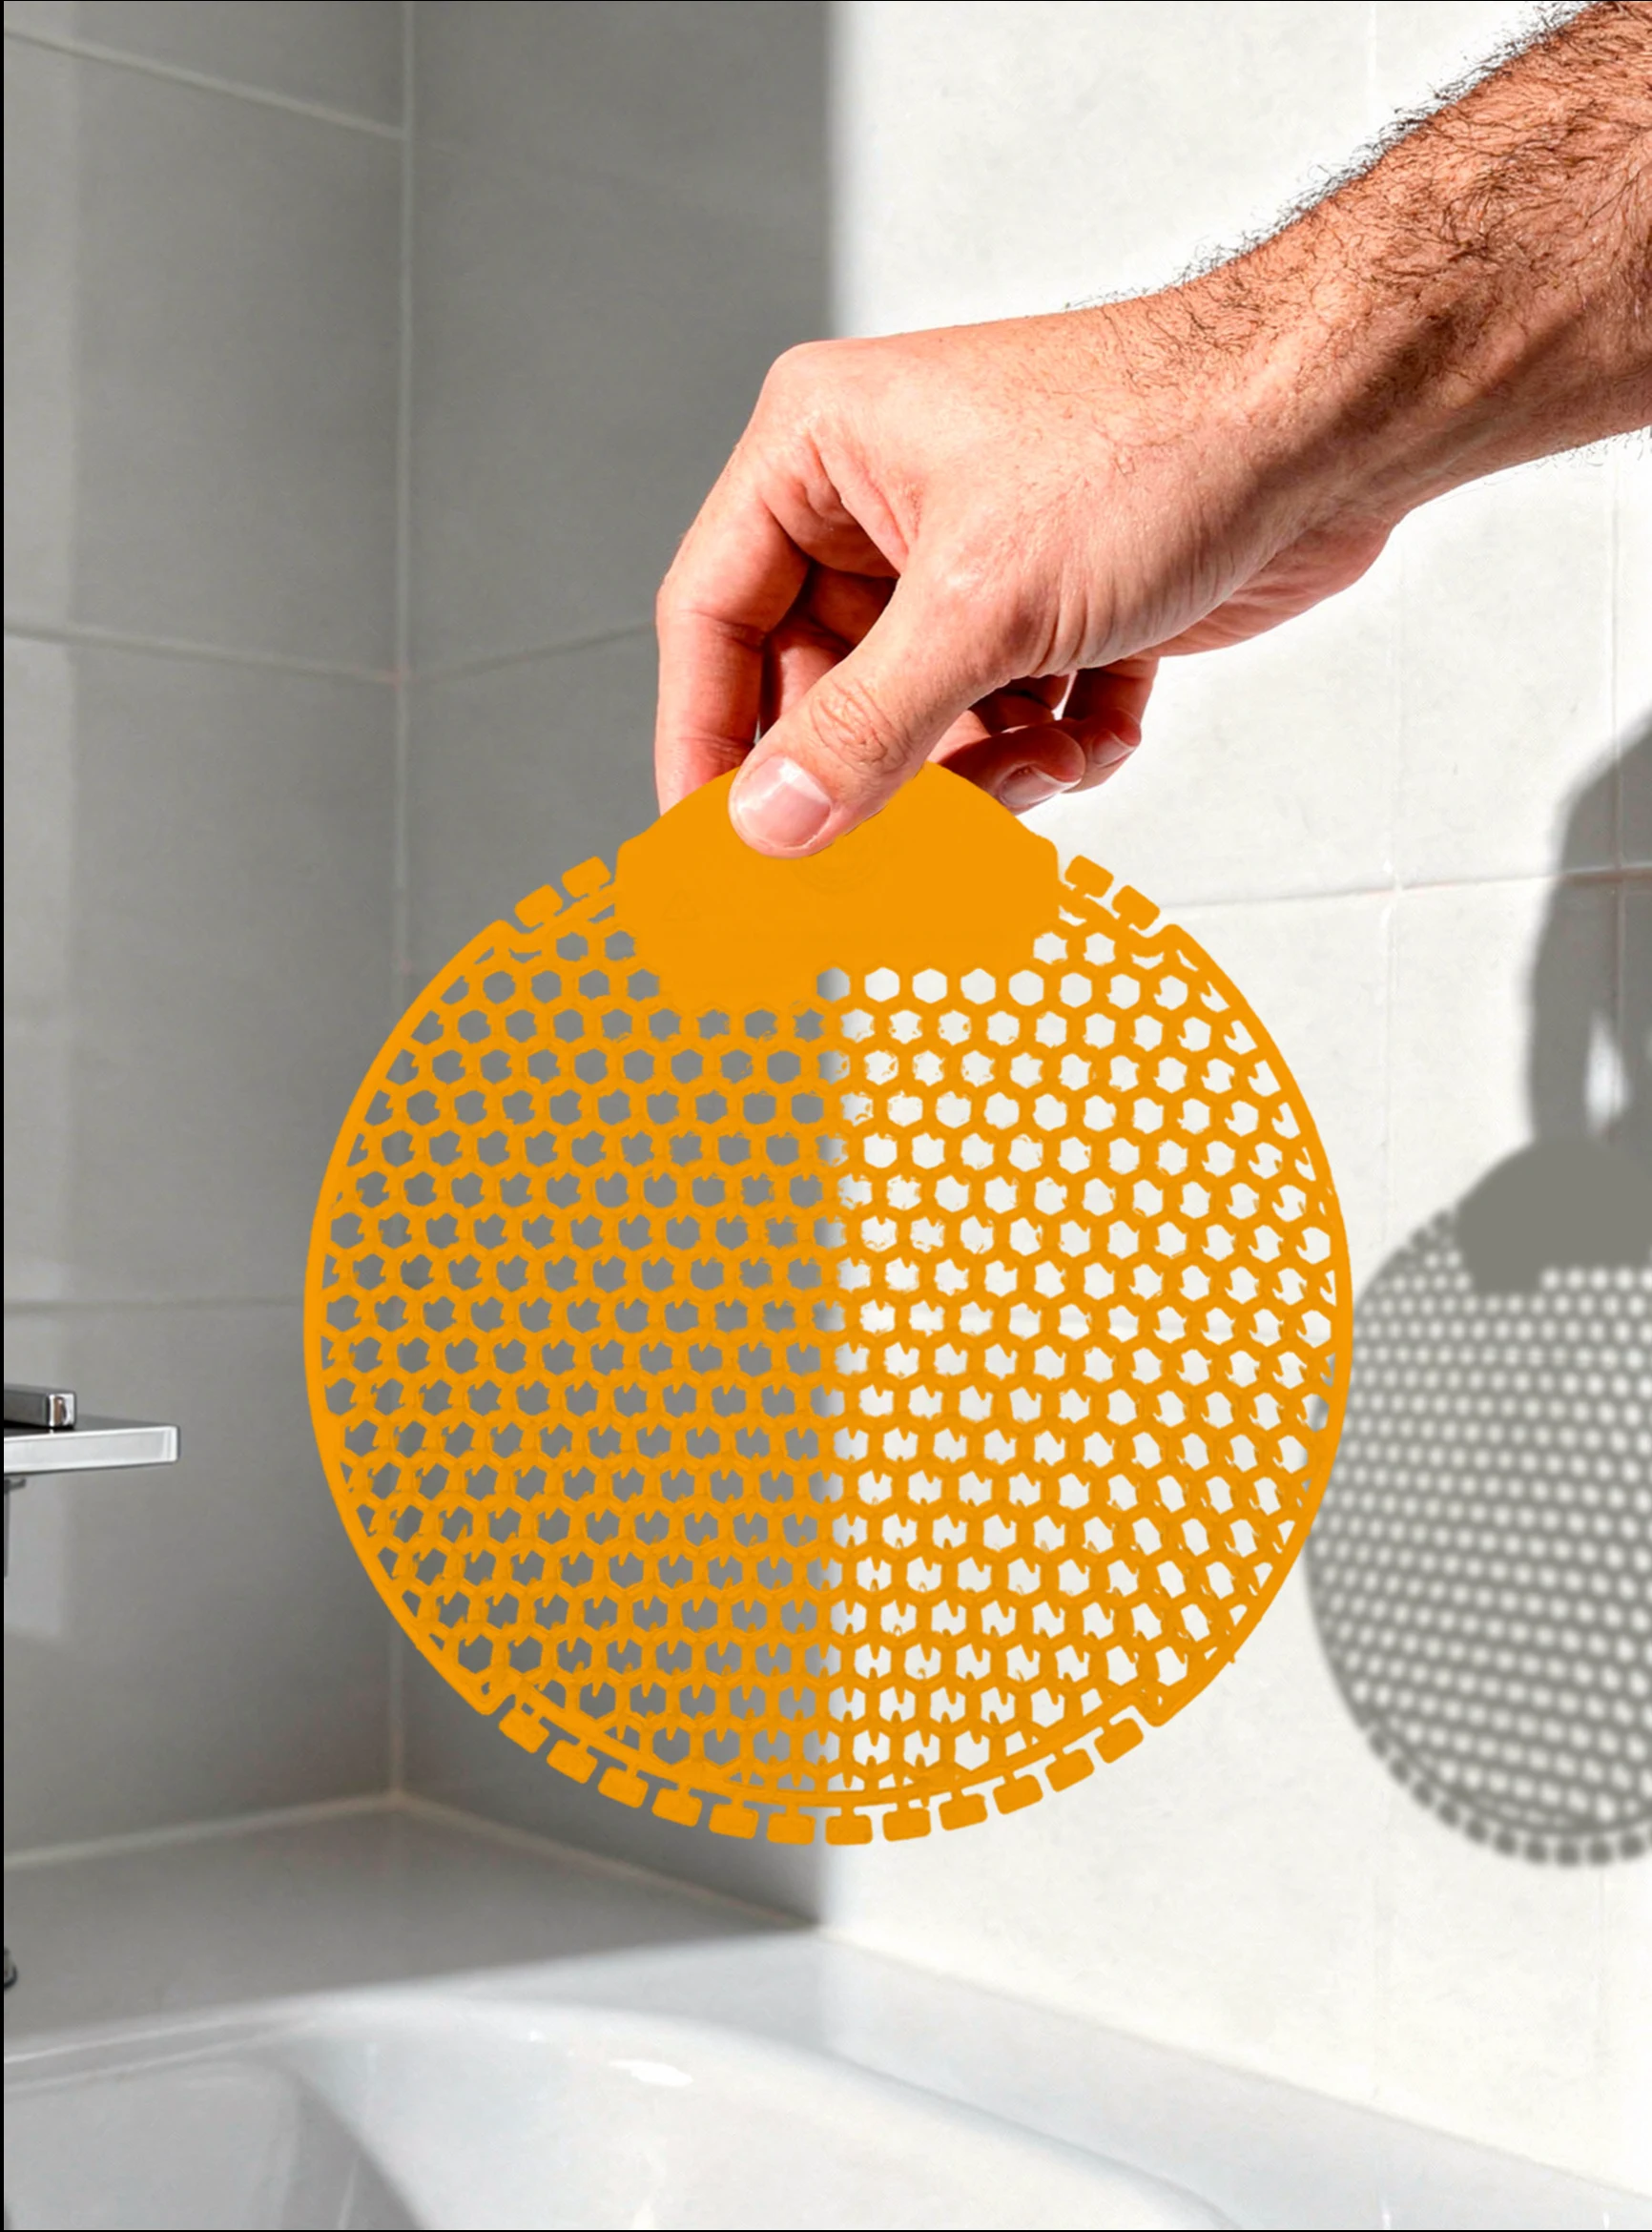
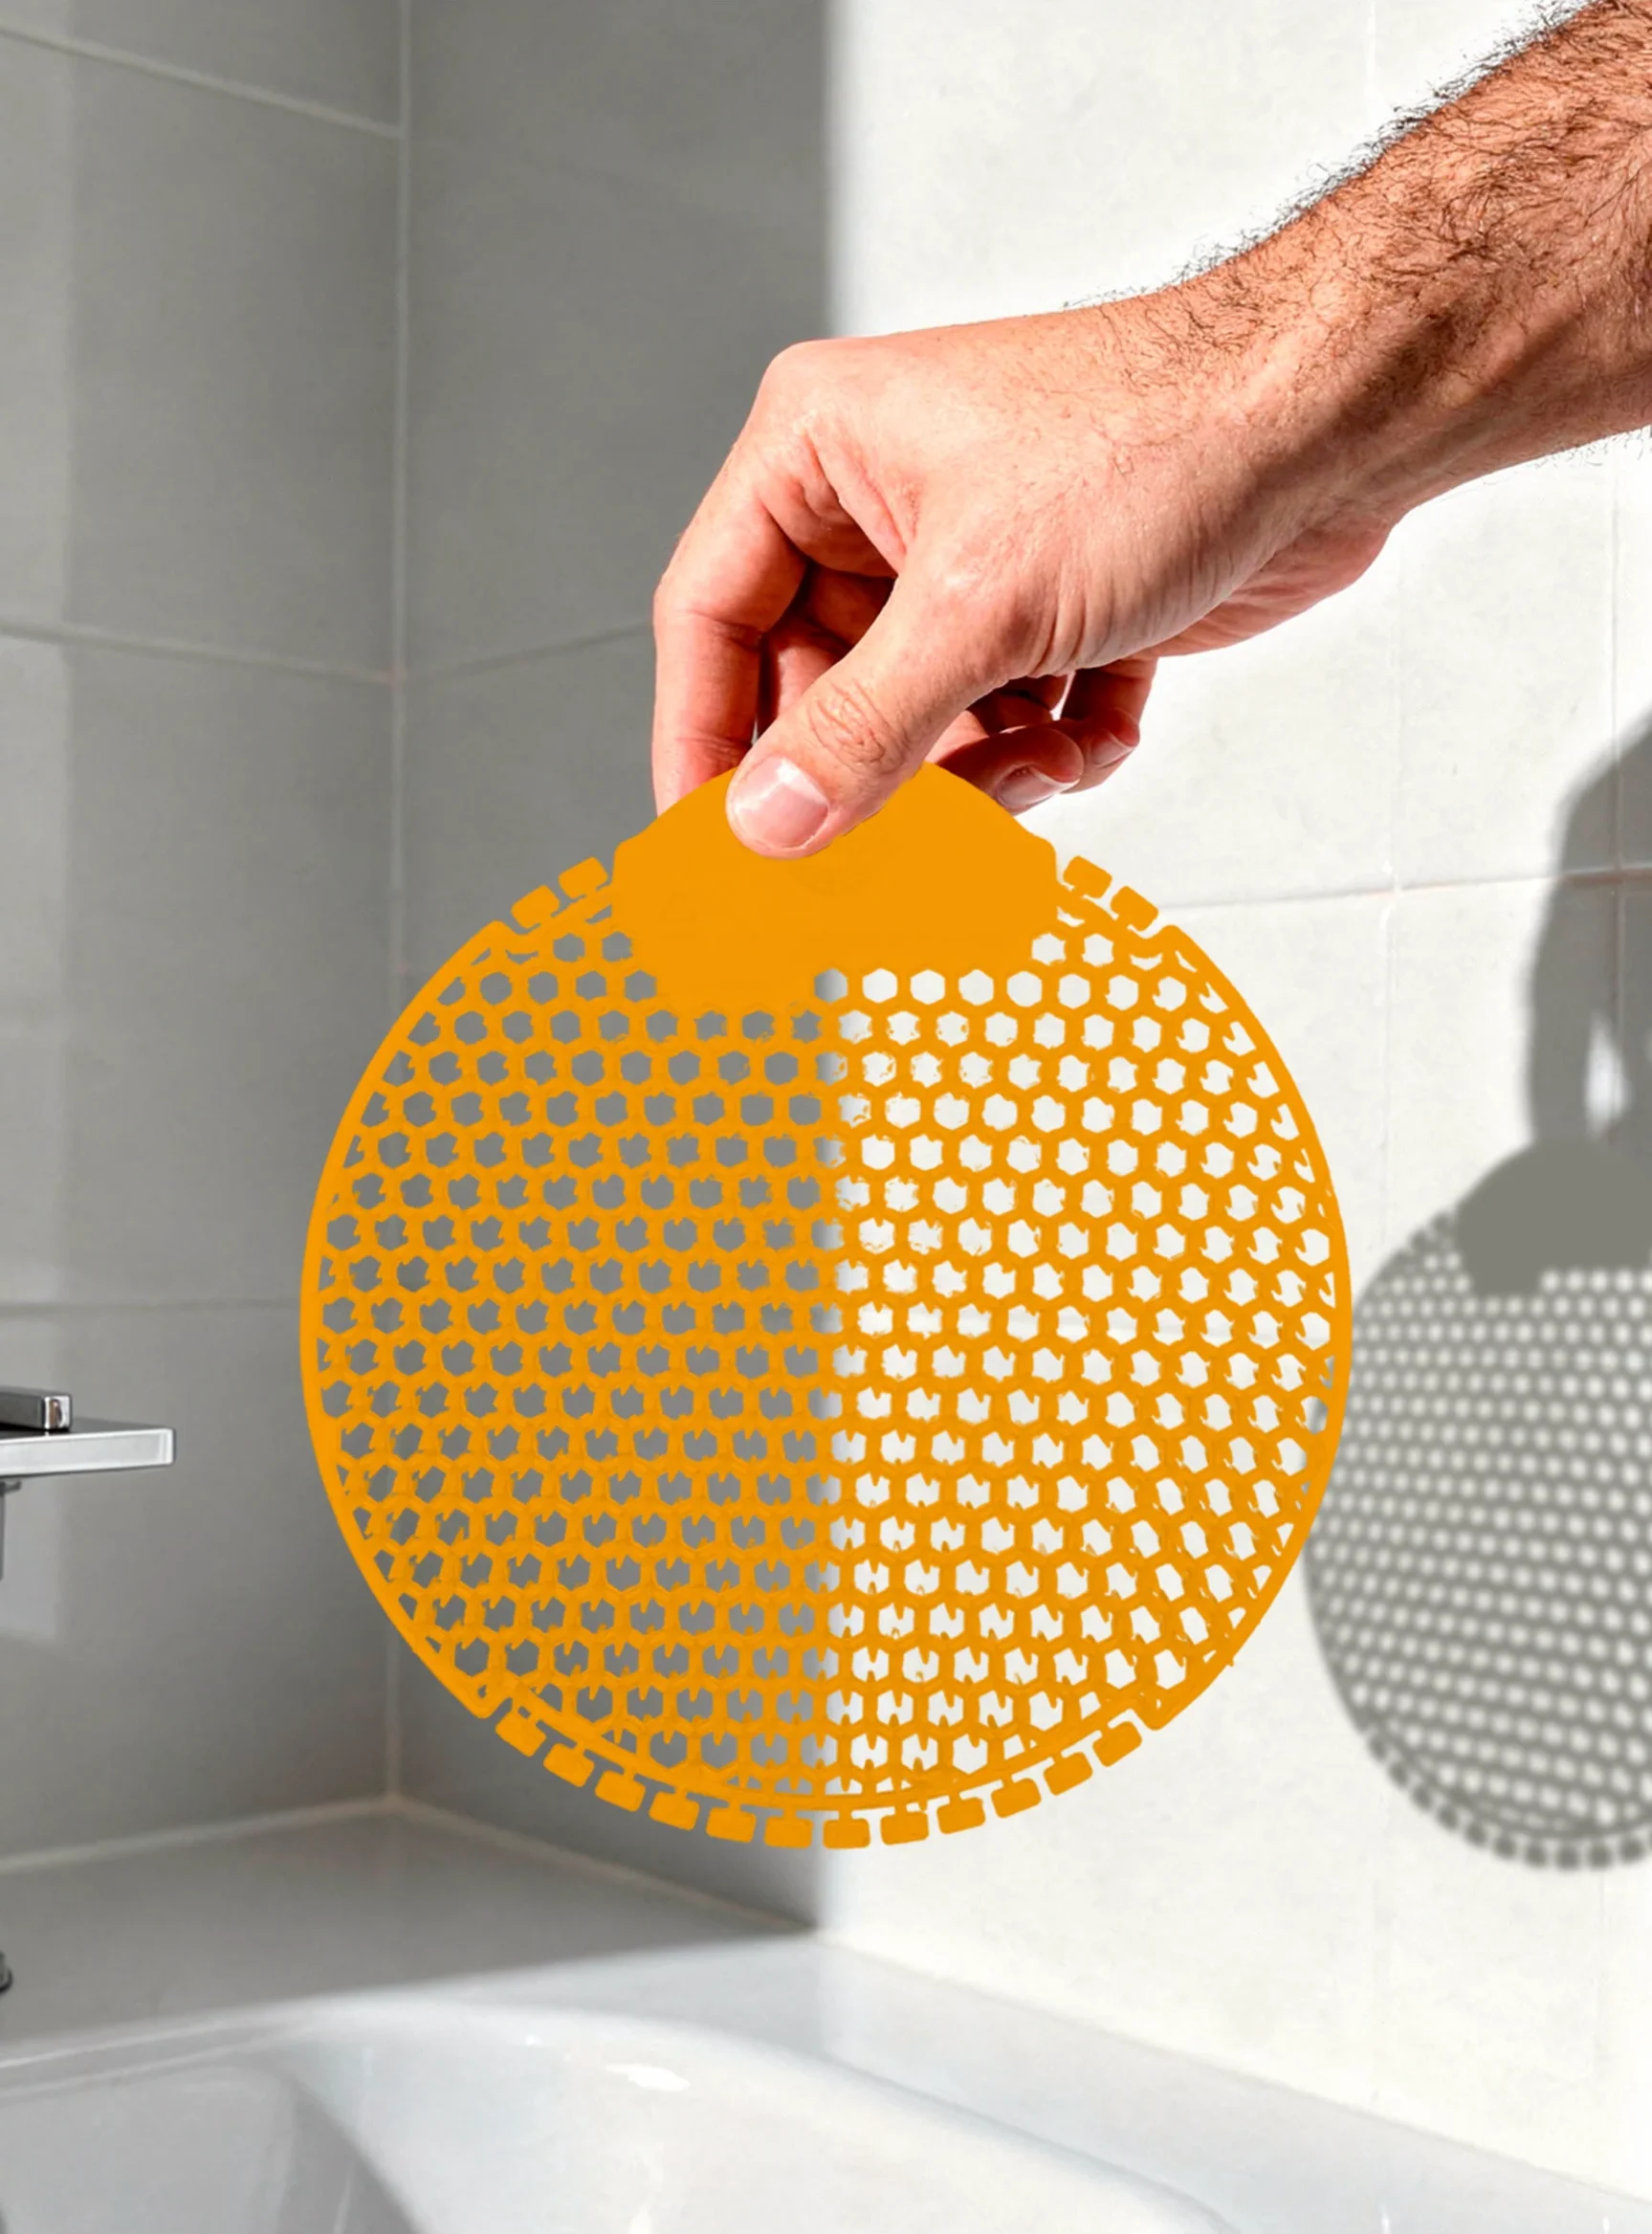
Hero (titulo pegado + pildora 1 linea), Fragancias completas/centradas, Apple cinnamon rojo, borde negro hero-tapete
- Hero: 'Descubre el placer de' pegado a 'un aroma'; pildora subtitulo en una sola linea en todas las vistas (nowrap + font fluido)
- Fragancias: imagenes completas (contain) centradas con margen (aspect 9/2)
- Catalogo: Apple cinnamon en rojo (#c0392b)
- Recortado borde negro fino de hero-tapete-portada
- Cache-bust CSS ?v=4

diff --git a/css/styles.css b/css/styles.css
@@ -271,12 +271,13 @@ img { max-width: 100%; display: block; }
 }
 
 .hero__pill .hero__subtitle {
-  font-size: 1.1rem;
+  font-size: clamp(0.5rem, 1.85vw, 1.05rem);
   color: rgba(255, 255, 255, 0.92);
   margin: 0;
   line-height: 1.4;
   max-width: none;
   opacity: 1;
+  white-space: nowrap;
 }
 
 /* Hero badge */
@@ -334,7 +335,7 @@ img { max-width: 100%; display: block; }
   font-size: clamp(1.6rem, 2.6vw, 2.4rem);
   font-weight: 600;
   color: var(--navy);
-  margin-bottom: 0.4rem;
+  margin-bottom: 0;
   opacity: 0;
 }
 
@@ -352,7 +353,7 @@ img { max-width: 100%; display: block; }
   line-height: 0.9;
   letter-spacing: -0.01em;
   display: block;
-  margin-top: -0.08em;
+  margin-top: -0.22em;
   margin-bottom: 0.08em;
 }
 
@@ -674,7 +675,7 @@ img { max-width: 100%; display: block; }
 .fragancia-card__img {
   position: relative;
   width: 100%;
-  aspect-ratio: 5 / 2;
+  aspect-ratio: 9 / 2;
   overflow: hidden;
   display: block;
   border-bottom: 4px solid var(--navy);
@@ -686,7 +687,7 @@ img { max-width: 100%; display: block; }
   inset: 0;
   width: 100%;
   height: 100%;
-  object-fit: cover;
+  object-fit: contain;
   object-position: center;
   display: block;
   transition: transform var(--transition);
@@ -1797,8 +1798,7 @@ body.modal-open { overflow: hidden; }
   .hero__title { margin-bottom: 1.5rem; }
   .hero__title-accent { font-size: clamp(3.6rem, 15vw, 5.4rem); }
   .hero__title-sub { font-size: clamp(1.9rem, 7.6vw, 2.9rem); }
-  .hero__pill { padding: 0.85rem 1.35rem; }
-  .hero__pill .hero__subtitle { font-size: 1rem; }
+  .hero__pill { padding: 0.8rem 1rem; }
   .hero__collage { max-width: min(85vw, 380px); }
 
   .hero__stats { padding: 1.75rem 0; }
@@ -1879,8 +1879,7 @@ body.modal-open { overflow: hidden; }
   .hero__title-sub { font-size: clamp(1.7rem, 8vw, 2.4rem); }
   .hero__collage { max-width: min(78vw, 280px); gap: 0.5rem; aspect-ratio: 1.15 / 1; }
   .hero__collage > div { border-radius: 14px; }
-  .hero__pill { margin-bottom: 1.5rem; padding: 0.8rem 1.2rem; }
-  .hero__pill .hero__subtitle { font-size: 0.95rem; }
+  .hero__pill { margin-bottom: 1.5rem; padding: 0.75rem 0.85rem; }
   .hero__badge { font-size: 0.85rem; }
 
   .hero__stats { padding: 1.5rem 0; }

diff --git a/catalogo.html b/catalogo.html
@@ -16,7 +16,7 @@
   <meta property="og:description" content="20 fragancias premium en aerosol y tapetes antisalpicaduras con bactericida para empresas, hoteles y baños comerciales en Guatemala.">
   <meta property="og:image" content="images/producto-aerosoles.webp">
 
-  <link rel="stylesheet" href="css/styles.css?v=3">
+  <link rel="stylesheet" href="css/styles.css?v=4">
 
   <script type="application/ld+json">
   {
@@ -199,7 +199,7 @@
           </button>
           <button class="aroma-card" data-animate="fade-up" data-delay="0.1">
             <div class="aroma-card__visual"><img src="images/aerosoles-fs/apple-cinnamon.webp" alt="Apple cinnamon" class="aroma-card__visual-img" loading="lazy"></div>
-            <h4 class="aroma-card__name">Apple <span class="accent-italic" style="color:#b1c09d">cinnamon</span></h4>
+            <h4 class="aroma-card__name">Apple <span class="accent-italic" style="color:#c0392b">cinnamon</span></h4>
             <p class="aroma-card__desc">Manzana dulce con un toque de canela. Crea un ambiente acogedor y reconfortante.</p>
             <span class="aroma-card__weight">NET WT 6.39 OZ / 181.1G</span>
             <div class="aroma-card__meta">

diff --git a/index.html b/index.html
@@ -27,7 +27,7 @@
   <meta name="twitter:description" content="Aromatizantes premium para empresas, hoteles y oficinas en Guatemala.">
   <meta name="twitter:image" content="images/producto-aerosoles.webp">
 
-  <link rel="stylesheet" href="css/styles.css?v=3">
+  <link rel="stylesheet" href="css/styles.css?v=4">
 
   <!-- JSON-LD: Organization + LocalBusiness -->
   <script type="application/ld+json">
@@ -110,7 +110,7 @@
           <img src="images/aroma-manzana-canela.webp" alt="Aerosol Apple Cinnamon con manzanas" loading="eager">
         </div>
         <div class="hero__collage-bottom">
-          <img src="images/hero-tapete-portada.webp" alt="Tapete naranja en mingitorio" loading="eager">
+          <img src="images/hero-tapete-portada.webp?v=2" alt="Tapete naranja en mingitorio" loading="eager">
         </div>
       </div>
     </div>

diff --git a/contacto.html b/contacto.html
@@ -16,7 +16,7 @@
   <meta property="og:description" content="Únete a nuestra red de distribuidores en Guatemala y Centroamérica.">
   <meta property="og:image" content="images/producto-aerosoles.webp">
 
-  <link rel="stylesheet" href="css/styles.css?v=3">
+  <link rel="stylesheet" href="css/styles.css?v=4">
 
   <script type="application/ld+json">
   {